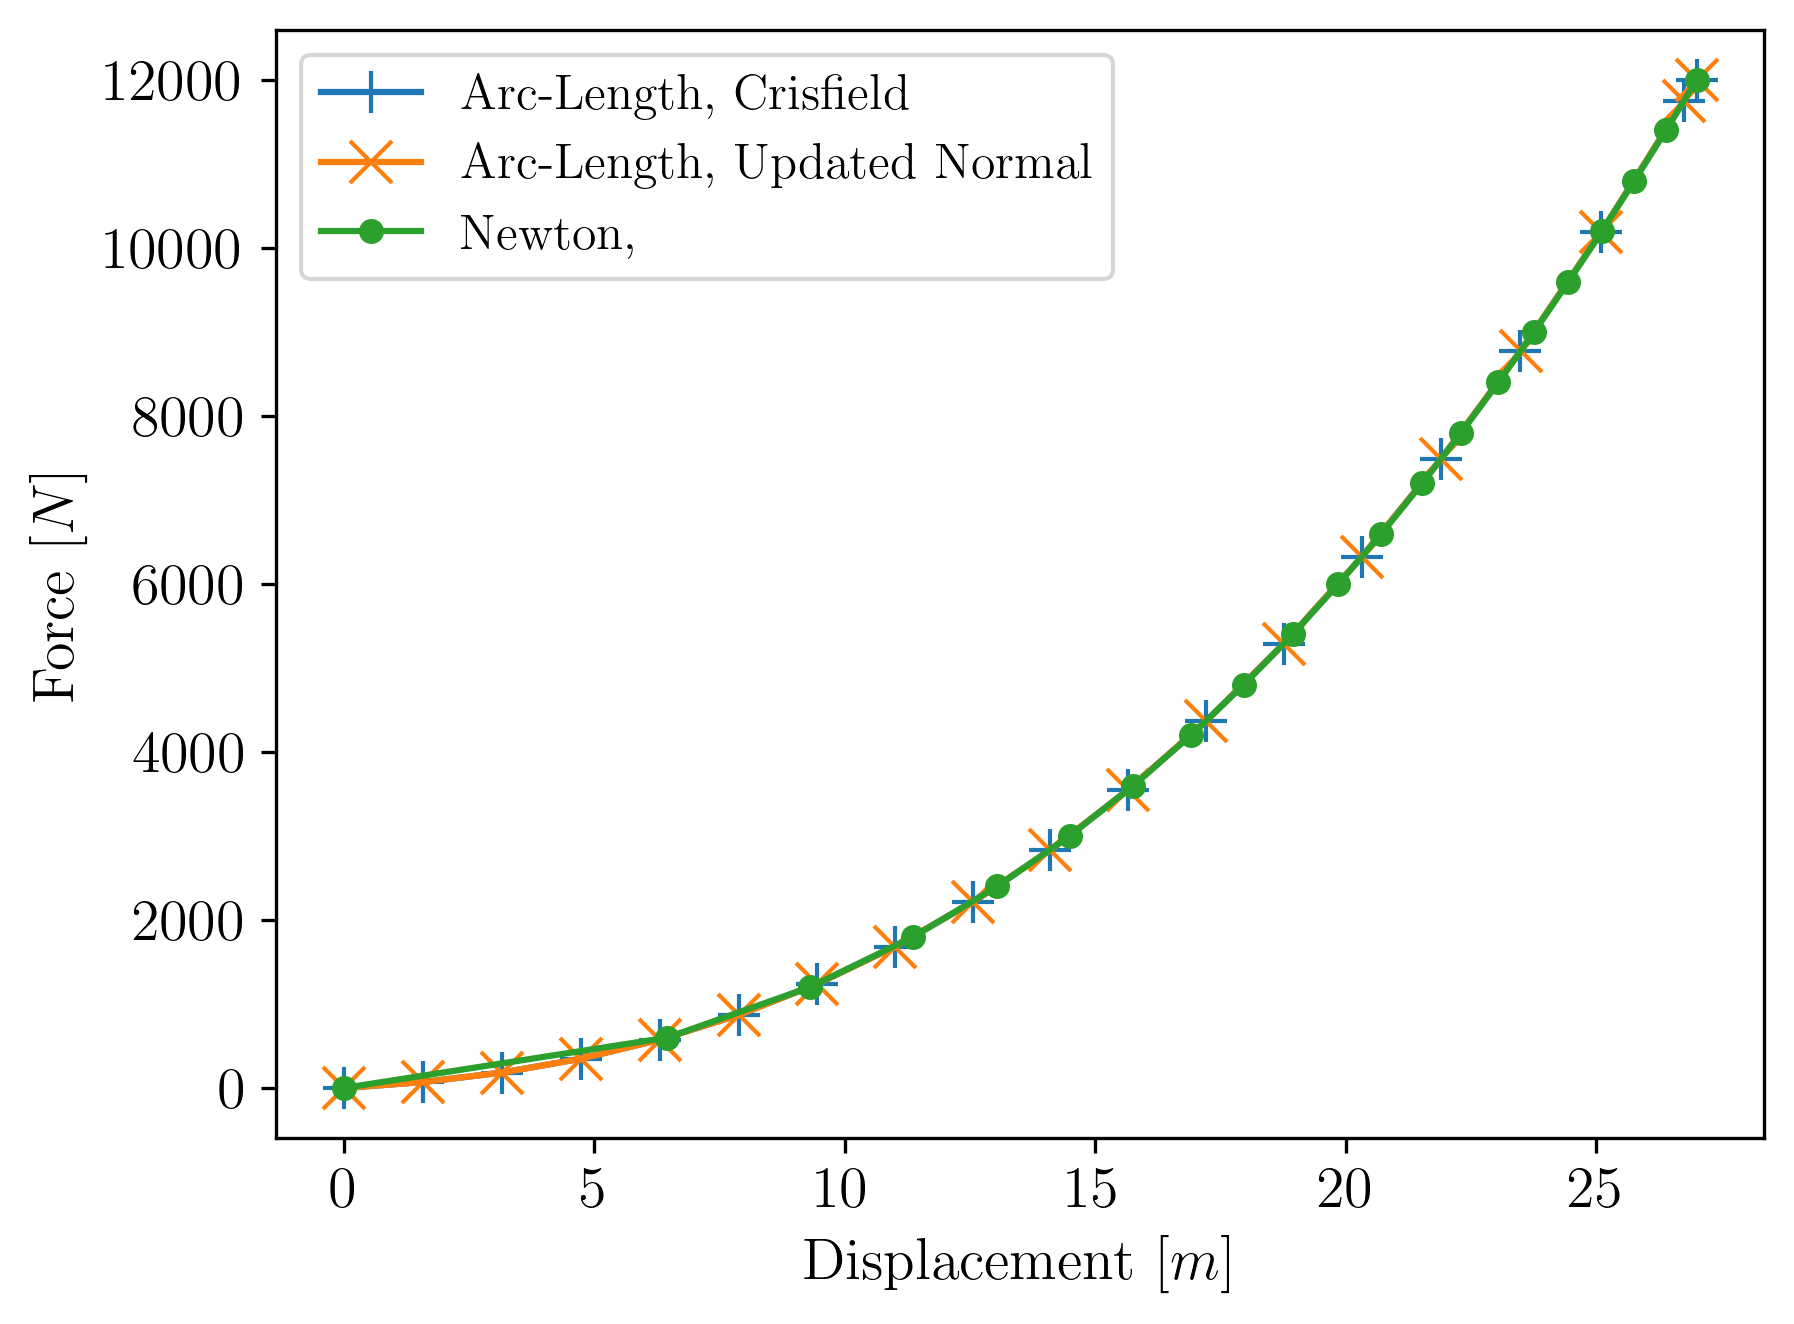
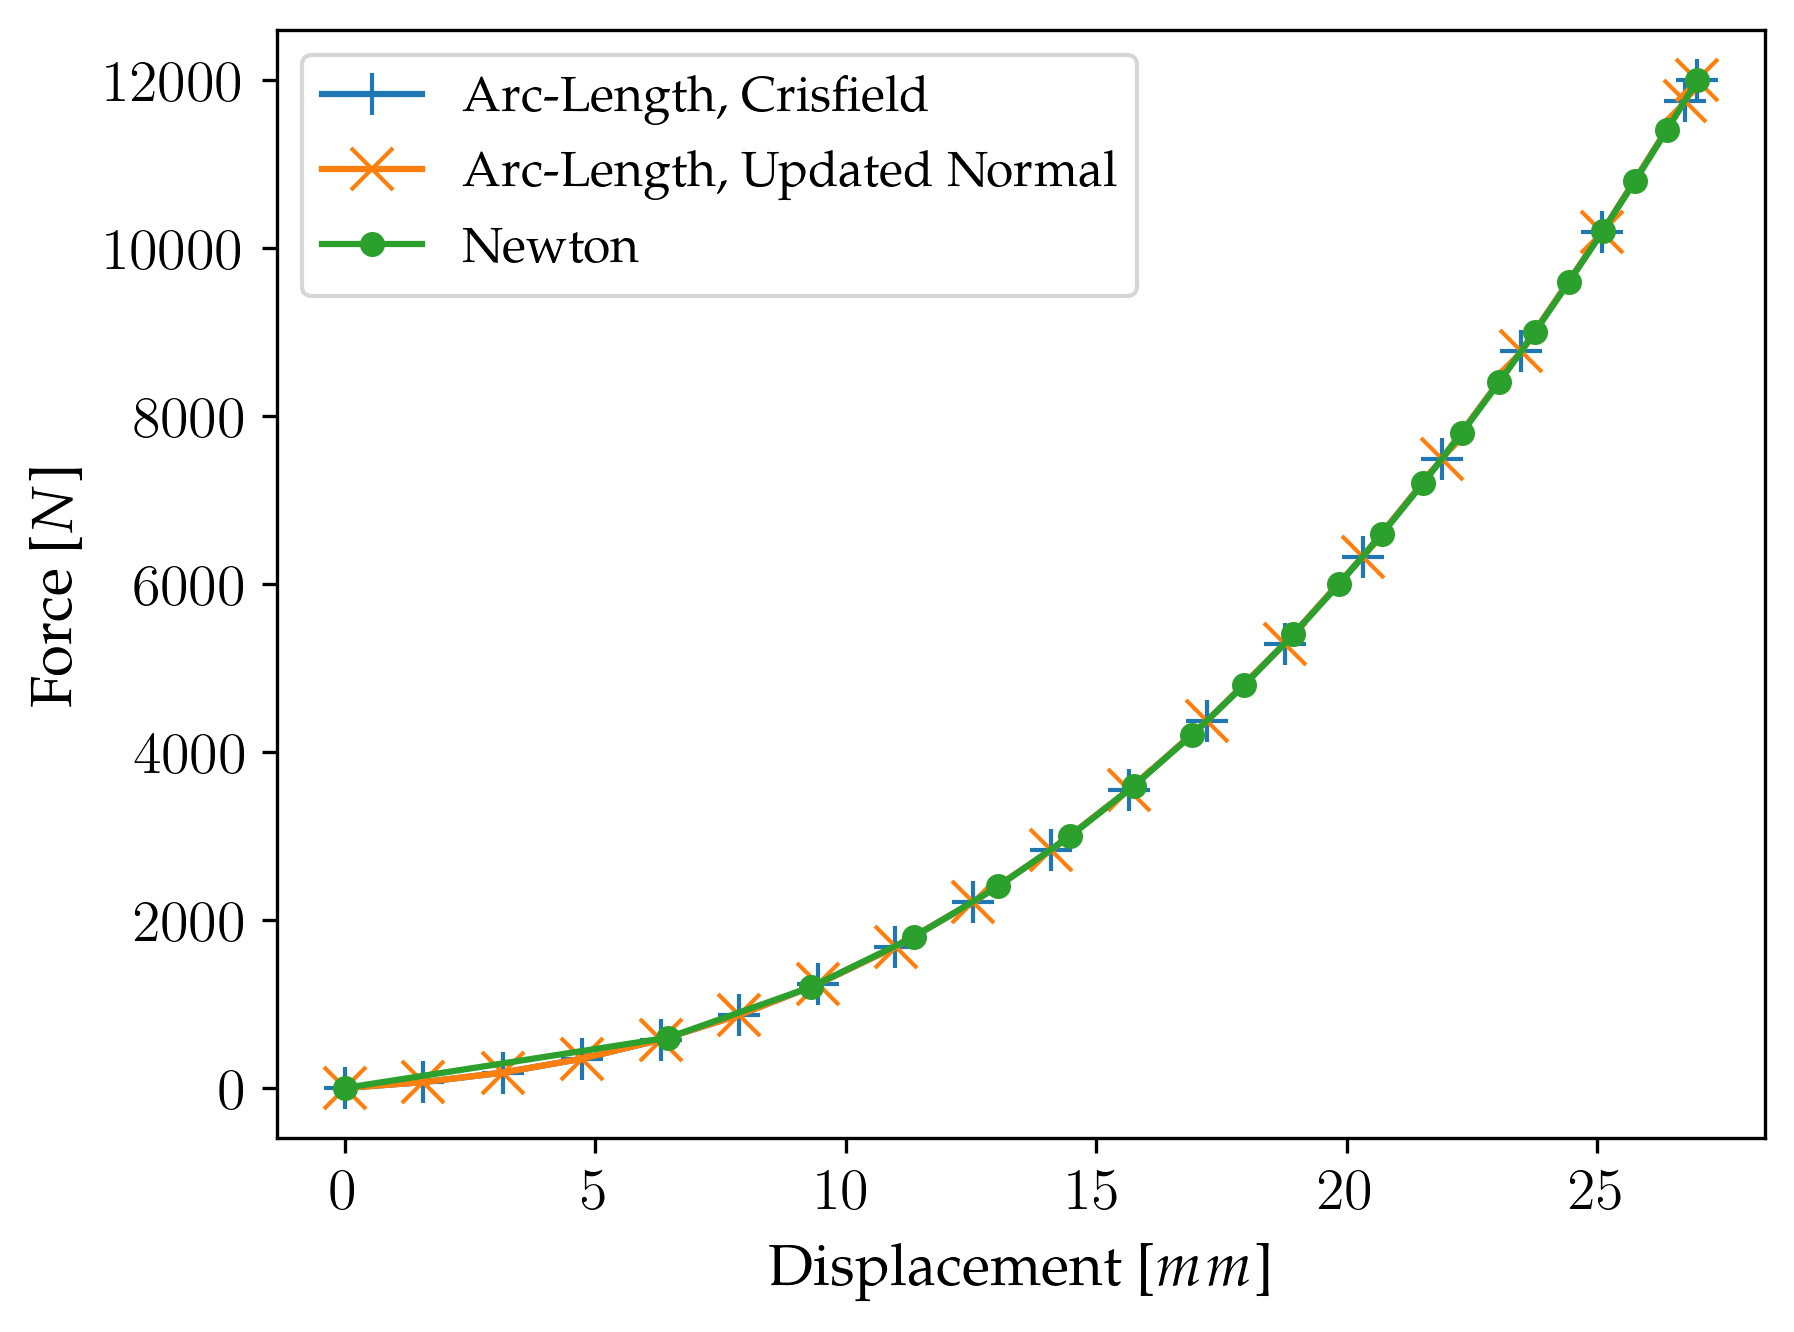
Script cleanup

diff --git a/script/view.py b/script/view.py
@@ -1,6 +1,4 @@
-from os import write
 import pyvista as pv
-import pyvistaqt as pvqt
 import numpy as np
 from pathlib import Path
 import pandas as pd
@@ -19,6 +17,8 @@ matplotlib.rcParams[
 \\usepackage{amsmath}
 \\usepackage{bm}
 """
+plt.rcParams.update({'font.size': 18})
+pv.global_theme.font.family = 'courier'
 
 plt.rcParams.update({'font.size': 18})
 pv.global_theme.font.family = 'courier'
@@ -83,7 +83,7 @@ def plot_series(meshes: pv.MultiBlock, base_mesh: pv.DataSet, force_displacement
     plotter.view_xy()
     plotter.camera.zoom(zoom)
     t = np.array(range(len(meshes)))
-    grid.translate([0, 10, 0], inplace=True)
+    grid.translate([0, 15, 0], inplace=True)
     figs = []
     fig, ax = plt.subplots(1, 2, tight_layout=True, dpi=150, sharey=True, figsize=(8, 4))
     if force_displacement_df is not None:
@@ -101,6 +101,8 @@ def plot_series(meshes: pv.MultiBlock, base_mesh: pv.DataSet, force_displacement
         #     chart.background_color = (1.0, 1.0, 1.0, 0.4)
         #     plotter.add_chart(chart)
 
+    basename = Path(filename).stem if filename is not None else None
+
     def update_time(time):
         time = np.clip([int(np.floor(time))], 0, len(meshes) - 1)[0]
         for _, x_axis, point in figs:
@@ -108,7 +110,7 @@ def plot_series(meshes: pv.MultiBlock, base_mesh: pv.DataSet, force_displacement
                 print(f"setting data at time {time + 1} to {force_displacement_df[x_axis][time + 1]}")
                 point.set_data([force_displacement_df[x_axis][time + 1]], [force_displacement_df["force"][time + 1]])
         grid.points[:] = meshes[time].points[:]
-        grid.translate([0, 10, 0], inplace=True)
+        grid.translate([0, 15, 0], inplace=True)
         grid.point_data[field_name][:] = meshes[time].point_data[field_name][:]
         if not write_gif:
             plotter.update()

diff --git a/script/plot_force_displacement.py b/script/plot_force_displacement.py
@@ -1,6 +1,3 @@
-from re import M
-from matplotlib import markers
-import numpy as np
 import pandas as pd
 import matplotlib.pyplot as plt
 import matplotlib
@@ -13,6 +10,9 @@ matplotlib.rcParams["font.family"] = "serif"
 matplotlib.rcParams[
     "text.latex.preamble"
 ] = """
+\\usepackage[T1]{fontenc}
+\\usepackage{newpxmath}
+\\usepackage{newpxtext}
 \\usepackage{amsmath}
 \\usepackage{bm}
 """
@@ -22,8 +22,7 @@ plt.rc('legend', fontsize=12)    # legend fontsize
 series_names = {
     'arclength_exact': "Arc-Length, Crisfield",
     'arclength_normal': "Arc-Length, Updated Normal",
-    'newton': "Newton,",
-    # 'newton_lu': "Newton, LU",
+    'newton': "Newton",
 }
 
 fargs = {
@@ -84,7 +83,7 @@ if __name__ == "__main__":
             label = f"{series_names[series]}"
             ax.plot(displacement, force, label=label, **fargs[series])
         ax.set_title(args.title)
-        ax.set_xlabel("Displacement [$m$]")
+        ax.set_xlabel("Displacement [$mm$]")
         ax.set_ylabel("Force [$N$]")
         ax.legend(loc="best")
         output_name = Path.cwd() / f"{output_file_name}_{pforce}{file_extension}"
